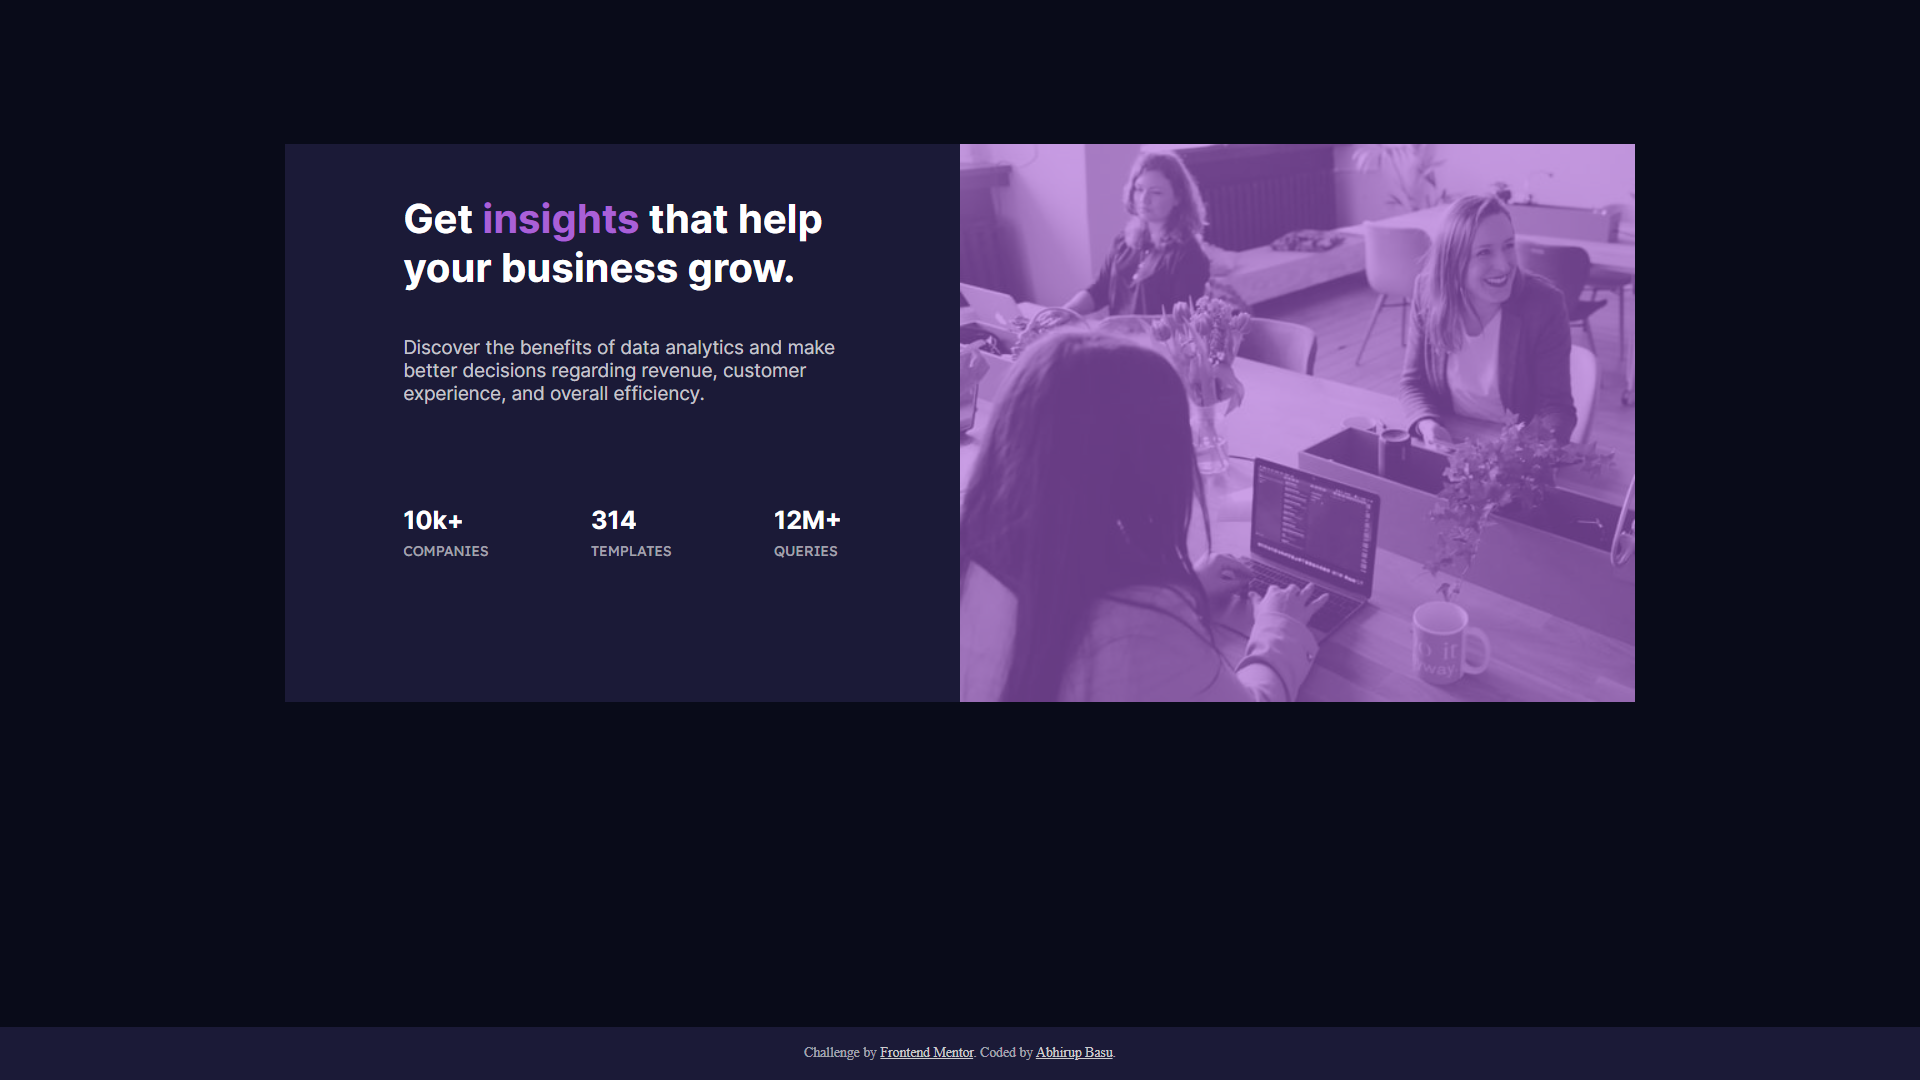
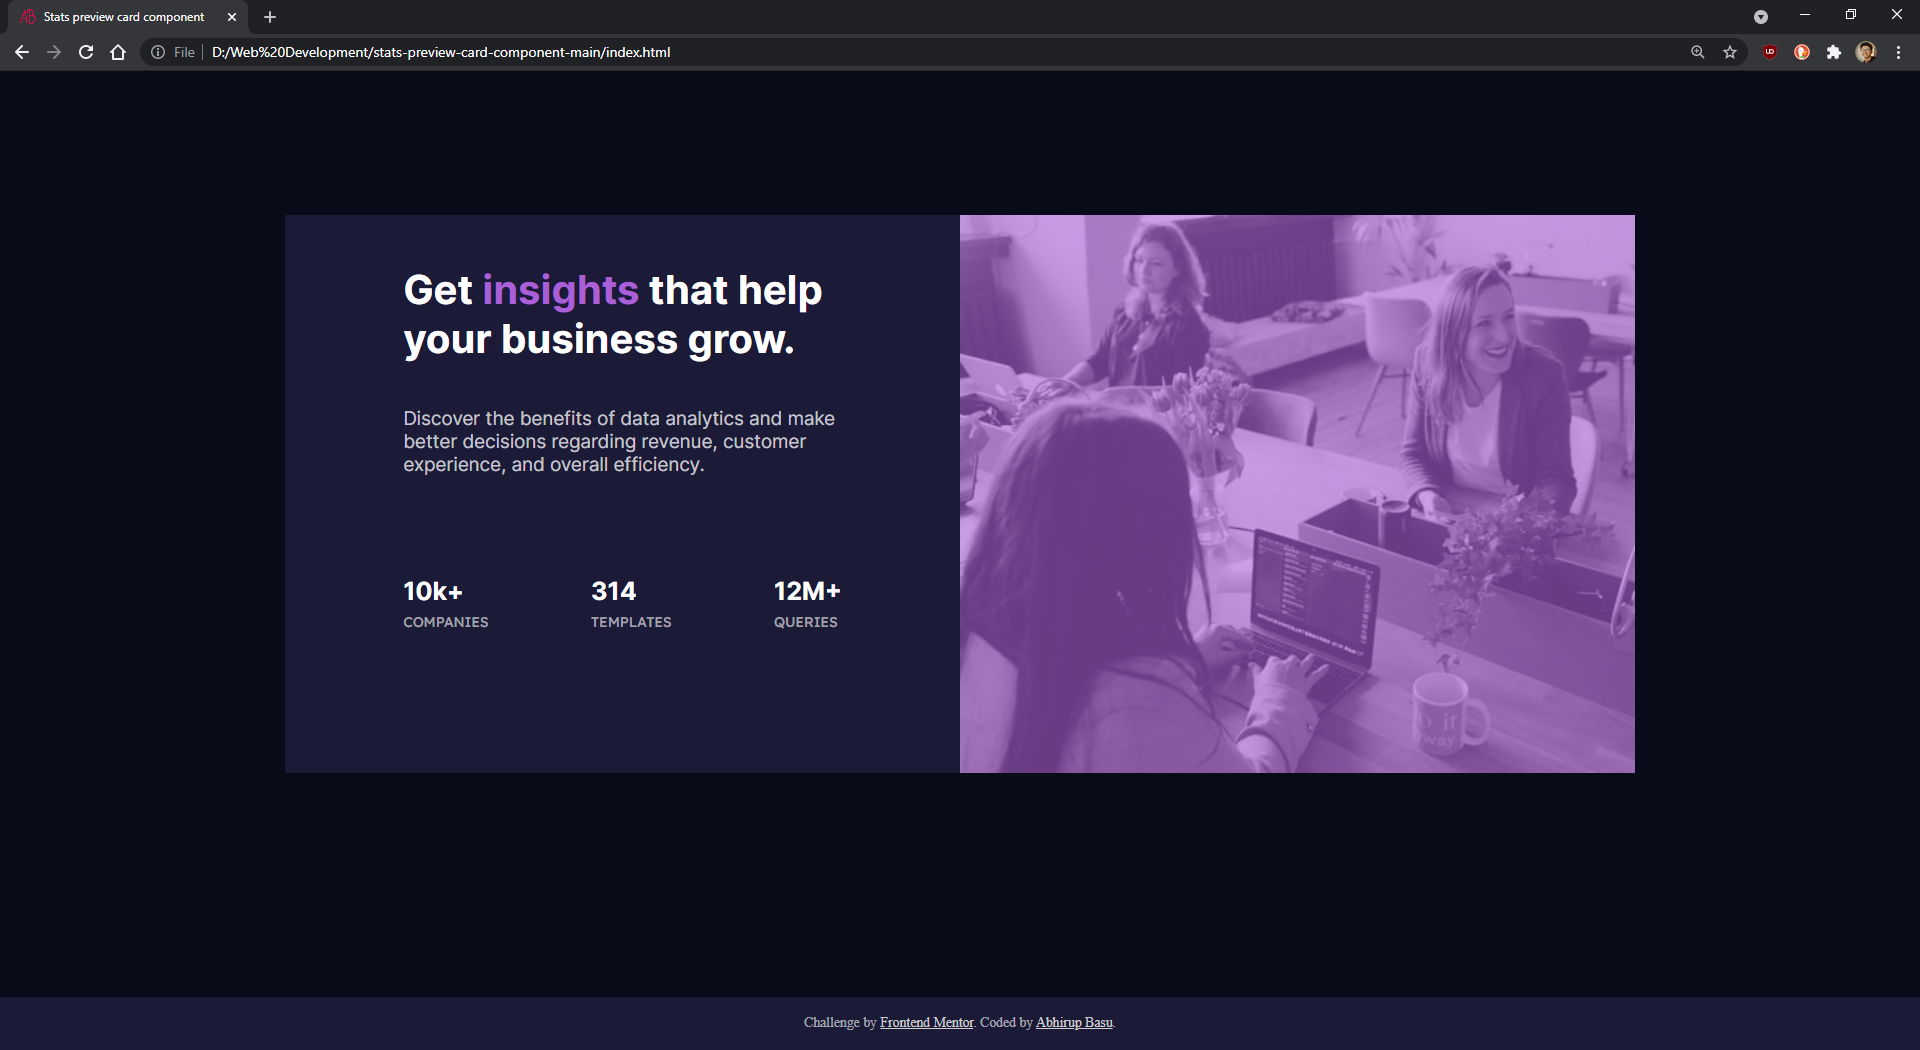
changed the font size of stats figures and gave proper font-weights. Also modified the screenshot.

diff --git a/styles.css b/styles.css
@@ -89,7 +89,7 @@ h3 {
 
 h4 {
   margin: 5px auto 1px;
-  font-weight: normal;
+  font-weight: bold;
   font-size: 20px;
   font-family: 'Inter', sans-serif;
   color: hsl(0, 0%, 100%);
